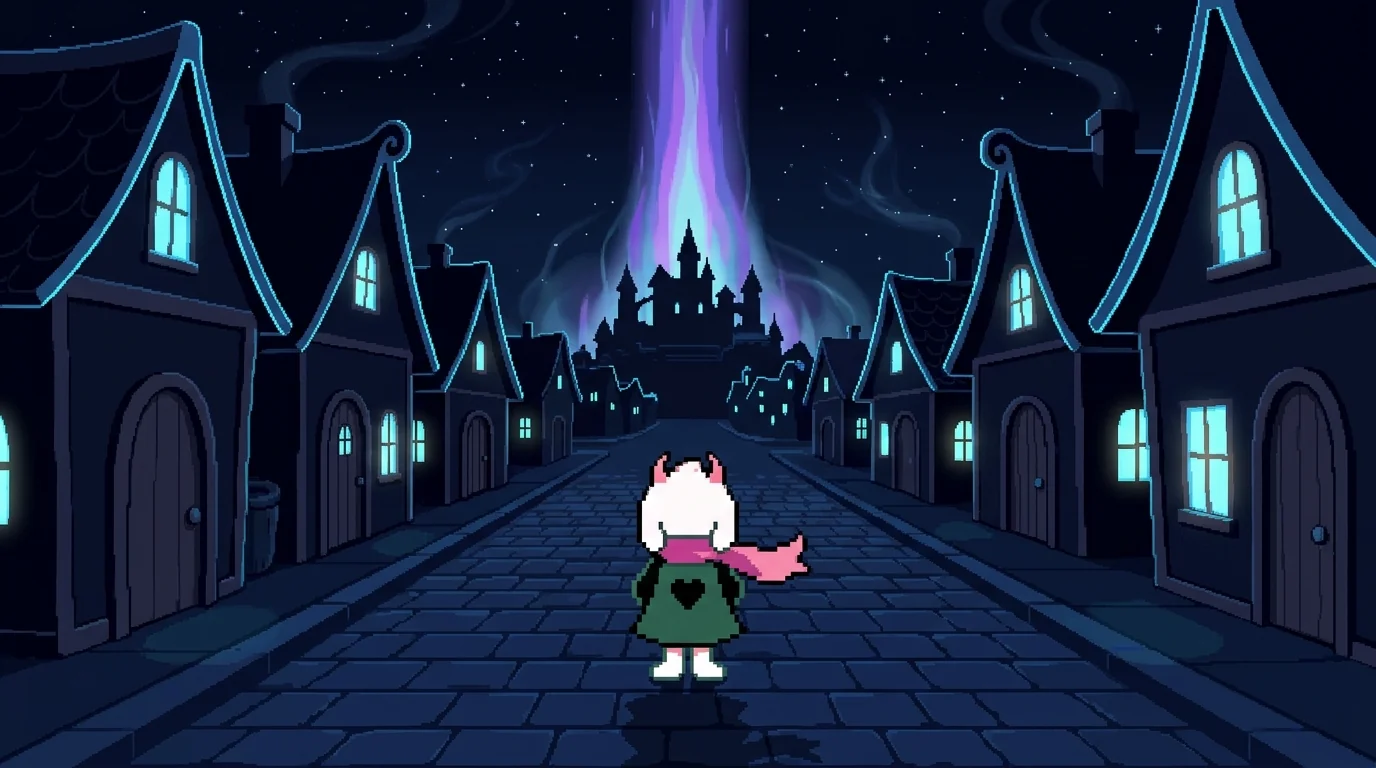
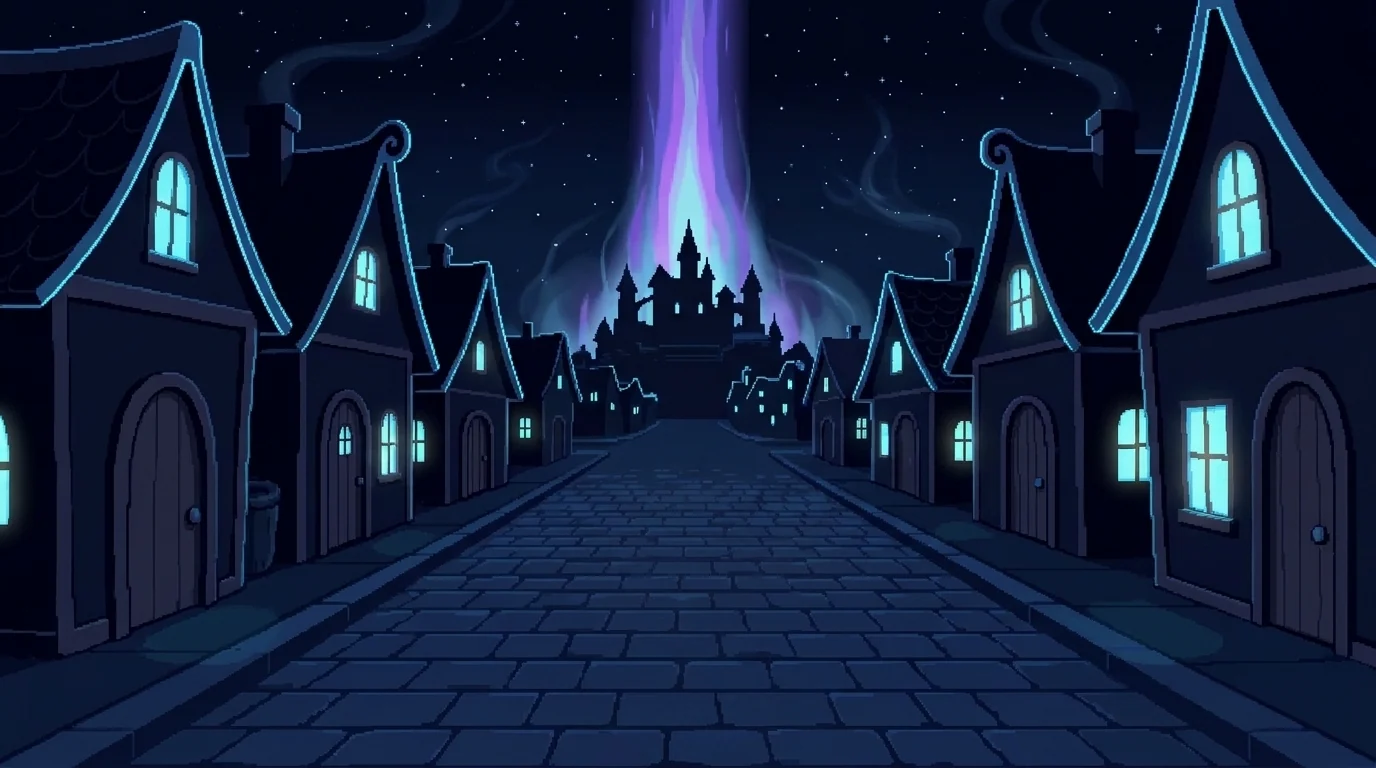
feat: animate Castle Town backdrop (fluttering Ralsei back scarf, surging Dark Fountain, twinkling stars) and fix mobile drawer stacking

diff --git a/src/scripts/site.js b/src/scripts/site.js
@@ -2,6 +2,7 @@
    JZWXZ Blog · Minimal Client Interactions
    - Light / Castle Town Dark theme persistence
    - Mobile sidebar drawer
+   - Castle Town live backdrop FX (Dark Fountain surge + twinkling starlight)
    ========================================================================== */
 
 (function () {
@@ -9,11 +10,192 @@
   const root = document.documentElement;
   const themeBtn = document.getElementById('theme-toggle');
   const themeLabel = document.getElementById('theme-label');
+  const reduceMotion = window.matchMedia?.('(prefers-reduced-motion: reduce)').matches;
 
   function getTheme() {
     return root.getAttribute('data-theme') === 'dark' ? 'dark' : 'light';
   }
 
+  /* ------------------------------------------------------------------------
+     Castle Town Live Canvas FX (runs ONLY in Dark Mode & when visible)
+     ------------------------------------------------------------------------ */
+  const canvas = document.getElementById('castle-fx-canvas');
+  const ctx = canvas ? canvas.getContext('2d') : null;
+  let rafId = 0;
+  let cw = 0;
+  let ch = 0;
+
+  // Deterministic pseudo-random stars across the upper midnight sky
+  const stars = Array.from({ length: 48 }, (_, i) => {
+    const s1 = Math.sin(i * 12.9898) * 43758.5453;
+    const s2 = Math.sin(i * 78.233 + 1.7) * 43758.5453;
+    const s3 = Math.sin(i * 45.164 + 3.1) * 43758.5453;
+    let x = s1 - Math.floor(s1);
+    // Keep stars mostly outside the bright center fountain column
+    if (x > 0.43 && x < 0.57) {
+      x = x < 0.5 ? x - 0.14 : x + 0.14;
+    }
+    const y = 0.03 + (s2 - Math.floor(s2)) * 0.42;
+    const speed = 1.1 + (s3 - Math.floor(s3)) * 2.1;
+    const phase = (i * 1.37) % (Math.PI * 2);
+    const size = i % 5 === 0 ? 3 : 2;
+    const palette = ['#f0f7ff', '#a5f3fc', '#ddd6fe', '#c7d2fe'];
+    return { x, y, speed, phase, size, color: palette[i % palette.length] };
+  });
+
+  // Rising luminous wisps & pixel sparks inside the Dark Fountain
+  const wisps = Array.from({ length: 32 }, (_, i) => {
+    const r1 = (Math.sin(i * 19.31) * 43758.5453) % 1;
+    const r2 = (Math.sin(i * 37.73 + 2.4) * 43758.5453) % 1;
+    return {
+      offset: (Math.abs(r1) - 0.5) * 2, // -1 .. 1 across fountain width
+      progress: Math.abs(r2), // 0 (bottom) .. 1 (top)
+      speed: 0.16 + (i % 7) * 0.032,
+      len: 14 + (i % 5) * 9,
+      width: i % 3 === 0 ? 3 : 2,
+      sway: (i * 0.9) % (Math.PI * 2),
+      hue: i % 3 === 0 ? 'cyan' : i % 3 === 1 ? 'violet' : 'white',
+    };
+  });
+
+  function resizeCanvas() {
+    if (!canvas || !ctx) return;
+    const rect = canvas.getBoundingClientRect();
+    const dpr = Math.min(window.devicePixelRatio || 1, 2);
+    cw = Math.max(1, Math.floor(rect.width));
+    ch = Math.max(1, Math.floor(rect.height));
+    canvas.width = Math.floor(cw * dpr);
+    canvas.height = Math.floor(ch * dpr);
+    ctx.setTransform(dpr, 0, 0, dpr, 0, 0);
+  }
+
+  let lastTs = 0;
+
+  function drawFrame(ts) {
+    if (!ctx || getTheme() !== 'dark' || document.hidden) {
+      rafId = 0;
+      return;
+    }
+
+    const dt = lastTs ? Math.min((ts - lastTs) / 1000, 0.05) : 0.016;
+    lastTs = ts;
+    const t = ts / 1000;
+
+    ctx.clearRect(0, 0, cw, ch);
+
+    // 1. Surging Dark Fountain layered undulating energy ribbons
+    const cx = cw * 0.5;
+    const fountainBaseY = ch * 0.46;
+    const beamHalfW = Math.min(cw * 0.075, 76);
+
+    ctx.save();
+    ctx.globalCompositeOperation = 'lighter';
+
+    const ribbons = [
+      { color: 'rgba(139, 92, 246, 0.16)', width: beamHalfW * 1.55, amp: 8, freq: 0.016, speed: 2.6, phase: 0 },
+      { color: 'rgba(192, 132, 252, 0.18)', width: beamHalfW * 1.05, amp: 6, freq: 0.022, speed: 3.4, phase: 1.8 },
+      { color: 'rgba(56, 189, 248, 0.15)', width: beamHalfW * 0.72, amp: 5, freq: 0.028, speed: 4.1, phase: 3.2 },
+      { color: 'rgba(232, 245, 255, 0.13)', width: beamHalfW * 0.34, amp: 3, freq: 0.032, speed: 4.8, phase: 0.9 },
+    ];
+
+    const stepY = 12;
+    for (const r of ribbons) {
+      ctx.beginPath();
+      // Left edge going up
+      for (let y = fountainBaseY; y >= 0; y -= stepY) {
+        const norm = 1 - y / fountainBaseY; // 0 at base, 1 at top
+        const taper = 1 - norm * 0.22;
+        const wave = Math.sin(y * r.freq + t * r.speed + r.phase) * r.amp;
+        const x = cx - r.width * taper + wave;
+        if (y === fountainBaseY) ctx.moveTo(x, y);
+        else ctx.lineTo(x, y);
+      }
+      // Right edge going down
+      for (let y = 0; y <= fountainBaseY; y += stepY) {
+        const norm = 1 - y / fountainBaseY;
+        const taper = 1 - norm * 0.22;
+        const wave = Math.sin(y * r.freq + t * r.speed + r.phase + 0.8) * r.amp;
+        const x = cx + r.width * taper + wave;
+        ctx.lineTo(x, y);
+      }
+      ctx.closePath();
+
+      const grad = ctx.createLinearGradient(cx, fountainBaseY, cx, 0);
+      grad.addColorStop(0, 'rgba(0,0,0,0)');
+      grad.addColorStop(0.18, r.color);
+      grad.addColorStop(0.85, r.color);
+      grad.addColorStop(1, 'rgba(139, 92, 246, 0.05)');
+      ctx.fillStyle = grad;
+      ctx.fill();
+    }
+
+    // 2. Rising Dark Fountain energy wisps & pixel sparks
+    for (const w of wisps) {
+      w.progress += w.speed * dt;
+      if (w.progress > 1) w.progress -= 1;
+
+      const y = fountainBaseY * (1 - w.progress);
+      const spread = beamHalfW * (0.95 - w.progress * 0.2);
+      const x = cx + w.offset * spread + Math.sin(t * 2.5 + w.sway + w.progress * 6) * 5;
+      const alpha = Math.sin(w.progress * Math.PI) * 0.72;
+
+      if (w.hue === 'cyan') ctx.fillStyle = `rgba(125, 211, 252, ${alpha.toFixed(3)})`;
+      else if (w.hue === 'violet') ctx.fillStyle = `rgba(216, 180, 254, ${alpha.toFixed(3)})`;
+      else ctx.fillStyle = `rgba(240, 249, 255, ${(alpha * 0.85).toFixed(3)})`;
+
+      ctx.fillRect(Math.round(x), Math.round(y), w.width, w.len);
+    }
+
+    ctx.restore();
+
+    // 3. Twinkling pixel starlight across the upper midnight sky
+    for (const s of stars) {
+      const pulse = 0.5 + 0.5 * Math.sin(t * s.speed + s.phase);
+      const alpha = 0.16 + Math.pow(pulse, 2.2) * 0.84;
+      const sx = Math.round(s.x * cw);
+      const sy = Math.round(s.y * ch);
+
+      ctx.globalAlpha = alpha;
+      ctx.fillStyle = s.color;
+      ctx.fillRect(sx, sy, s.size, s.size);
+
+      // Subtle 4-point pixel sparkle at peak twinkle
+      if (pulse > 0.72) {
+        const arm = s.size === 3 ? 3 : 2;
+        ctx.globalAlpha = (pulse - 0.72) * 2.4;
+        ctx.fillRect(sx - arm, sy + Math.floor(s.size / 2), s.size + arm * 2, 1);
+        ctx.fillRect(sx + Math.floor(s.size / 2), sy - arm, 1, s.size + arm * 2);
+      }
+    }
+    ctx.globalAlpha = 1;
+
+    rafId = window.requestAnimationFrame(drawFrame);
+  }
+
+  function syncCastleFX() {
+    if (!canvas || !ctx || reduceMotion) return;
+    if (getTheme() === 'dark' && !document.hidden) {
+      resizeCanvas();
+      if (!rafId) {
+        lastTs = 0;
+        rafId = window.requestAnimationFrame(drawFrame);
+      }
+    } else if (rafId) {
+      window.cancelAnimationFrame(rafId);
+      rafId = 0;
+      ctx.clearRect(0, 0, cw, ch);
+    }
+  }
+
+  window.addEventListener('resize', () => {
+    if (getTheme() === 'dark') resizeCanvas();
+  });
+
+  document.addEventListener('visibilitychange', syncCastleFX);
+
+  /* ------------------------------------------------------------------------
+     Theme Toggle
+     ------------------------------------------------------------------------ */
   function applyTheme(theme) {
     root.setAttribute('data-theme', theme);
     try {
@@ -25,6 +207,7 @@
     if (themeBtn) {
       themeBtn.setAttribute('aria-pressed', String(theme === 'dark'));
     }
+    syncCastleFX();
   }
 
   applyTheme(getTheme());
@@ -33,7 +216,9 @@
     applyTheme(getTheme() === 'dark' ? 'light' : 'dark');
   });
 
-  // Mobile sidebar drawer
+  /* ------------------------------------------------------------------------
+     Mobile Sidebar Drawer
+     ------------------------------------------------------------------------ */
   const sidebar = document.getElementById('site-sidebar');
   const backdrop = document.getElementById('sidebar-backdrop');
   const menuBtn = document.getElementById('mobile-menu-btn');

diff --git a/src/styles/main.css b/src/styles/main.css
@@ -162,24 +162,57 @@ button {
   transform: scale(1.01);
 }
 
-/* Subtle surging glow over the center Dark Fountain */
-.castle-backdrop-fountain {
+/* Live Canvas Layer: Surging Dark Fountain + Twinkling Starlight */
+.castle-backdrop-fx {
+  position: absolute;
+  inset: 0;
+  width: 100%;
+  height: 100%;
+  display: block;
+}
+
+/* Official back-view Ralsei with 4-frame animated fluttering pink scarf */
+.castle-backdrop-ralsei {
+  --ralsei-fw: 108px;
   position: absolute;
   left: 50%;
-  top: 0;
-  height: 56%;
-  width: min(260px, 28vw);
-  transform: translateX(-50%);
-  background: linear-gradient(
-    180deg,
-    rgba(167, 139, 250, 0.24) 0%,
-    rgba(139, 92, 246, 0.2) 45%,
-    rgba(56, 189, 248, 0.16) 78%,
-    transparent 100%
-  );
-  filter: blur(22px);
-  mix-blend-mode: screen;
-  animation: fountainSurge 5s ease-in-out infinite;
+  bottom: 41%;
+  transform: translateX(-29%);
+  width: var(--ralsei-fw);
+  height: calc(var(--ralsei-fw) * 40 / 36);
+  pointer-events: none;
+}
+
+.castle-ralsei-shadow {
+  position: absolute;
+  left: 6%;
+  bottom: -5px;
+  width: 44%;
+  height: 16px;
+  border-radius: 50%;
+  background: rgba(4, 7, 18, 0.72);
+  filter: blur(4px);
+}
+
+.castle-ralsei-sprite {
+  position: relative;
+  width: 100%;
+  height: 100%;
+  background-image: url("/assets/deltarune/ralsei-back-wind.png");
+  background-repeat: no-repeat;
+  background-size: calc(var(--ralsei-fw) * 4) 100%;
+  background-position: 0 0;
+  filter: brightness(0.92) drop-shadow(0 0 12px rgba(139, 92, 246, 0.24));
+  animation: ralseiScarf 0.92s steps(4) infinite;
+}
+
+@keyframes ralseiScarf {
+  from {
+    background-position-x: 0;
+  }
+  to {
+    background-position-x: calc(var(--ralsei-fw) * -4);
+  }
 }
 
 /* Balanced atmospheric veil so content stays crisp and readable */
@@ -188,22 +221,11 @@ button {
   inset: 0;
   background: linear-gradient(
     180deg,
-    rgba(9, 12, 24, 0.56) 0%,
-    rgba(10, 14, 28, 0.34) 44%,
-    rgba(10, 14, 28, 0.48) 76%,
-    rgba(8, 11, 22, 0.68) 100%
+    rgba(9, 12, 24, 0.5) 0%,
+    rgba(10, 14, 28, 0.28) 44%,
+    rgba(10, 14, 28, 0.42) 76%,
+    rgba(8, 11, 22, 0.64) 100%
   );
-}
-
-@keyframes fountainSurge {
-  0%, 100% {
-    opacity: 0.55;
-    transform: translateX(-50%) scaleY(0.96);
-  }
-  50% {
-    opacity: 1;
-    transform: translateX(-50%) scaleY(1.05);
-  }
 }
 
 /* ==========================================================================
@@ -211,8 +233,6 @@ button {
    ========================================================================== */
 
 .app-shell {
-  position: relative;
-  z-index: 1;
   display: flex;
   min-height: 100vh;
 }
@@ -228,7 +248,7 @@ button {
   display: flex;
   flex-direction: column;
   padding: 28px 18px 20px;
-  z-index: 40;
+  z-index: 50;
   transition: background-color 0.2s ease, border-color 0.2s ease, transform 0.25s ease;
 }
 
@@ -466,6 +486,8 @@ button {
    ========================================================================== */
 
 .main-wrap {
+  position: relative;
+  z-index: 1;
   flex: 1;
   margin-left: var(--sidebar-width);
   min-width: 0;
@@ -1381,6 +1403,11 @@ button {
 
   .castle-backdrop {
     left: 0;
+  }
+
+  .castle-backdrop-ralsei {
+    --ralsei-fw: 90px;
+    bottom: 38%;
   }
 
   .home-layout {
